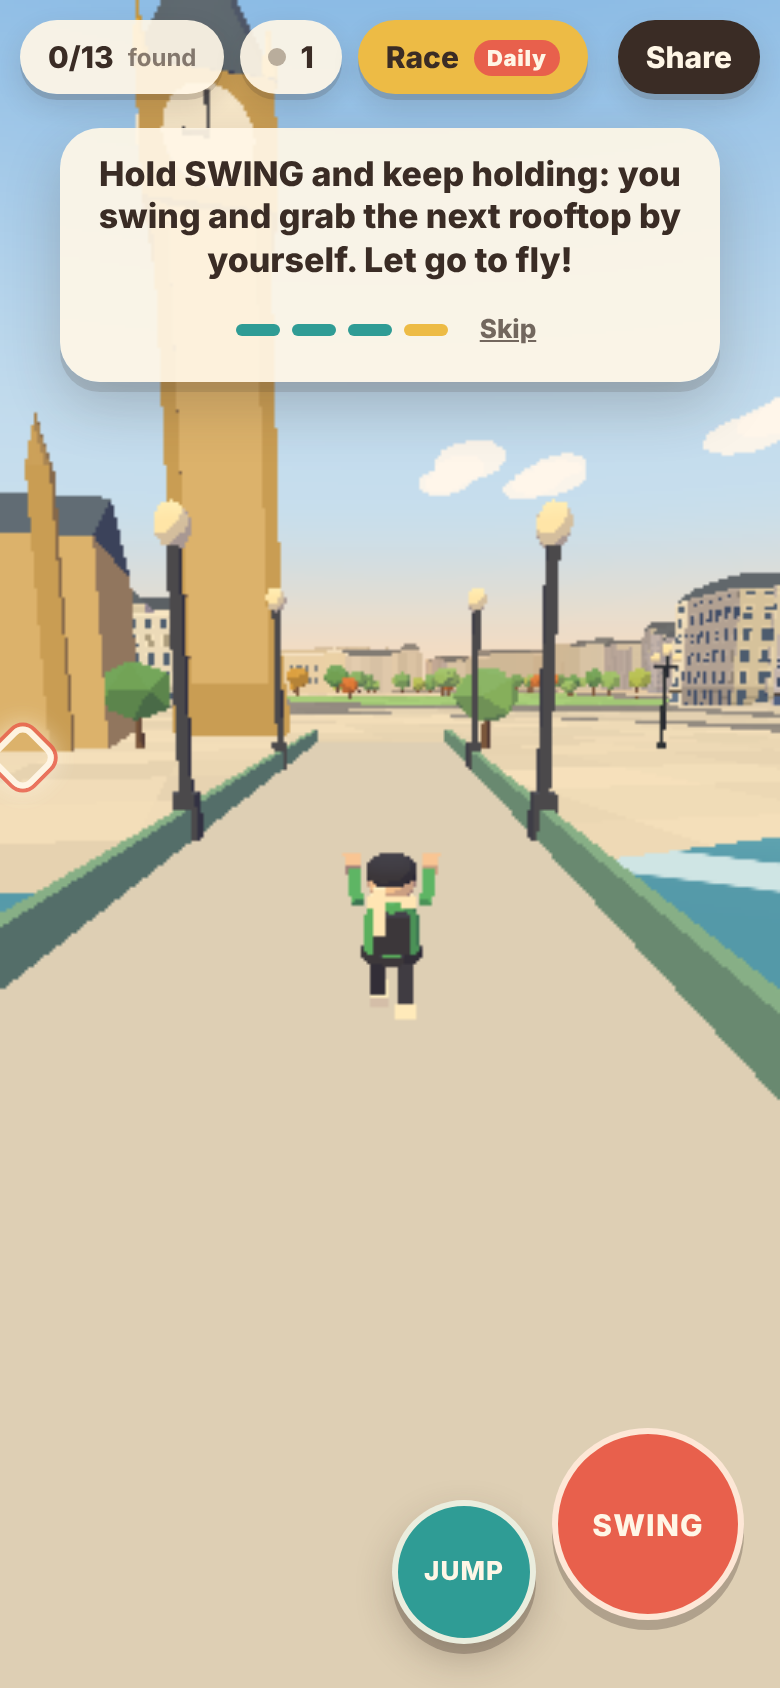
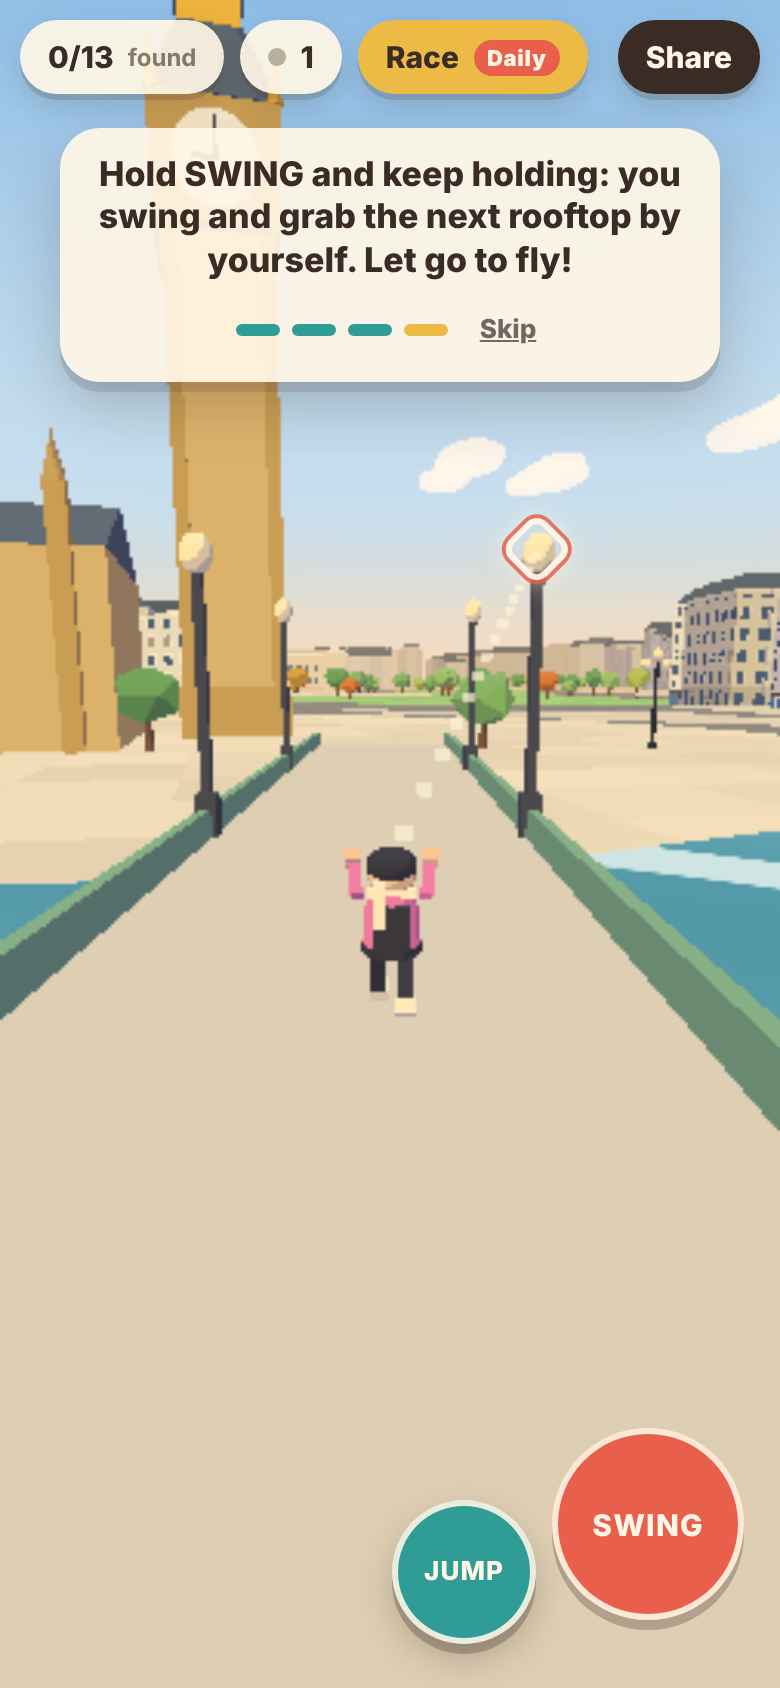
Swing aim: reticle sits on its anchor, dotted line previews the rope
The reticle's CSS rotate also rotated its screen offset, so it was
drawn away from the anchor it marked. Turn it after translating.
Add a dotted line from the hand to the anchor Swing would grab, and
make the Pages deploy wait for the browser tests.

Claude-Session: https://claude.ai/code/session_01Fz3Rh19KkUxcsxNbD18H7E

diff --git a/src/main.ts b/src/main.ts
@@ -13,6 +13,7 @@ import { GhostRecorder, decodeGhost, encodeGhost, ghostPose, liveDelta, splitDel
 import { ROUTES, Race, dailyRoute, formatTime, raceShareText, type Route } from './race';
 import { WATER_Y, groundHeight } from './world/river';
 import { parsePortal, portalRules } from './portal';
+import { AimLine } from './render/aimline';
 
 // We author colours as final display values, so skip three's colour management.
 THREE.ColorManagement.enabled = false;
@@ -316,6 +317,7 @@ ghostAvatar.setGhost(CONFIG.ghost.opacity);
 ghostAvatar.setName('Your best');
 ghostAvatar.root.visible = false;
 scene.add(ghostAvatar.root, ghostAvatar.rope);
+const aimLine = new AimLine(scene);
 ui.onName = (name) => {
   const n = cleanName(name);
   if (!n || n === myName) return;
@@ -433,12 +435,16 @@ function updateLandmarks(dt: number): void {
   }
 }
 
+/** where the reticle should sit on screen (CSS px), for the tests */
+let reticleAt: { x: number; y: number } | null = null;
 function updateReticle(): void {
+  reticleAt = null;
   const a = player.aim;
   if (!a || player.rope) return ui.setReticle(0, 0, false);
   proj.set(a.x, a.y, a.z).project(camera);
   if (proj.z > 1 || Math.abs(proj.x) > 1 || Math.abs(proj.y) > 1) return ui.setReticle(0, 0, false);
-  ui.setReticle((proj.x * 0.5 + 0.5) * window.innerWidth, (-proj.y * 0.5 + 0.5) * window.innerHeight, true);
+  reticleAt = { x: (proj.x * 0.5 + 0.5) * window.innerWidth, y: (-proj.y * 0.5 + 0.5) * window.innerHeight };
+  ui.setReticle(reticleAt.x, reticleAt.y, true);
 }
 
 // --- main loop ------------------------------------------------------------------------
@@ -523,6 +529,7 @@ function tick(dt: number, now: number): void {
   tut.looked = input.lookTotal;
 
   avatar.update(dt, rp.x, rp.y, rp.z, player.yaw, player.anim, player.speed, player.rope ? player.rope.visual : null);
+  aimLine.update({ x: rp.x, y: rp.y + 1.75, z: rp.z }, player.aim, !!player.rope);
   updateCamera(dt, now);
   updateLandmarks(dt);
   race.update(dt, player.pos.x, player.pos.z);
@@ -618,6 +625,13 @@ const debug = {
   config: CONFIG,
   get player() {
     return { x: player.pos.x, y: player.pos.y, z: player.pos.z, anim: player.anim, roped: !!player.rope, grounded: player.grounded, swings: player.swings };
+  },
+  /** the dotted preview line to the anchor Swing would grab */
+  get aimLine() {
+    return { visible: aimLine.line.visible, aim: !!player.aim };
+  },
+  get reticleAt() {
+    return reticleAt;
   },
   get peers() {
     return [...remotes.values()].map((r) => ({ id: r.peer.id, name: r.peer.name, seen: r.seen, x: r.snap.x, y: r.snap.y, z: r.snap.z }));

diff --git a/e2e/game.spec.ts b/e2e/game.spec.ts
@@ -9,7 +9,7 @@ const url = (room: string) => `/?room=${room}&relay=${encodeURIComponent(RELAY)}
 
 interface PlayerState { x: number; y: number; z: number; anim: number; roped: boolean; grounded: boolean; swings: number }
 interface PeerState { id: string; name: string; seen: boolean; x: number; y: number; z: number }
-type Debug = { ready: boolean; room: string; player: PlayerState; peers: PeerState[]; race: { state: string; time: number; next: number; route: string | null; stops: [number, number][] }; ghost: { loaded: boolean; time: number | null; visible: boolean; rope: boolean; x: number; z: number }; teleport(x: number, y: number, z: number): void };
+type Debug = { ready: boolean; room: string; player: PlayerState; peers: PeerState[]; race: { state: string; time: number; next: number; route: string | null; stops: [number, number][] }; ghost: { loaded: boolean; time: number | null; visible: boolean; rope: boolean; x: number; z: number }; aimLine: { visible: boolean; aim: boolean }; reticleAt: { x: number; y: number } | null; teleport(x: number, y: number, z: number): void };
 declare global {
   interface Window { __citywalk: Debug }
 }
@@ -104,6 +104,14 @@ test('mobile: holding Swing attaches a rope and releasing lets go', async ({ pag
   await page.goto(url('swingtest'));
   await ready(page);
   await page.locator('#tut-skip').tap();
+  // before grabbing: a dotted preview line points at the anchor Swing would take
+  await expect.poll(async () => page.evaluate(() => window.__citywalk.aimLine), { timeout: 5000 }).toEqual({ visible: true, aim: true });
+  // ...and the reticle sits on that anchor, not somewhere else on screen
+  const at = (await page.evaluate(() => window.__citywalk.reticleAt))!;
+  expect(at).not.toBeNull();
+  const rb = (await page.locator('#reticle').boundingBox())!;
+  expect(Math.abs(rb.x + rb.width / 2 - at.x)).toBeLessThan(6);
+  expect(Math.abs(rb.y + rb.height / 2 - at.y)).toBeLessThan(6);
   const cdp = await page.context().newCDPSession(page);
   const box = (await page.locator('#btn-swing').boundingBox())!;
   const bx = box.x + box.width / 2;
@@ -111,6 +119,7 @@ test('mobile: holding Swing attaches a rope and releasing lets go', async ({ pag
 
   await touch(cdp, 'touchStart', bx, by, 2);
   await expect.poll(async () => (await player(page)).roped, { timeout: 5000 }).toBe(true);
+  expect((await page.evaluate(() => window.__citywalk.aimLine)).visible).toBe(false); // the real rope replaces it
   await page.waitForTimeout(700);
   const mid = await player(page);
   expect(mid.y).toBeGreaterThan(0.5); // lifted off the ground by the rope

diff --git a/src/render/aimline.ts b/src/render/aimline.ts
@@ -1,0 +1,58 @@
+import * as THREE from 'three';
+import { CONFIG } from '../config';
+
+export interface P3 {
+  x: number;
+  y: number;
+  z: number;
+}
+
+/**
+ * Where the aim preview line runs: from just off the player's hand to the anchor
+ * the Swing button would grab. Null when there is nothing to show.
+ */
+export function aimSegment(hand: P3, aim: P3 | null, roped: boolean, cfg = CONFIG.aimLine): { from: P3; to: P3; len: number } | null {
+  if (!cfg.enabled || !aim || roped) return null;
+  const dx = aim.x - hand.x, dy = aim.y - hand.y, dz = aim.z - hand.z;
+  const full = Math.hypot(dx, dy, dz);
+  const len = full - cfg.startGap;
+  if (len < cfg.minLength) return null;
+  const k = cfg.startGap / full;
+  return { from: { x: hand.x + dx * k, y: hand.y + dy * k, z: hand.z + dz * k }, to: { x: aim.x, y: aim.y, z: aim.z }, len };
+}
+
+/**
+ * A dotted line previewing the next rope, drawn while a target is in reach.
+ * Dots (not a GL line) so it stays visible on high-density phone screens,
+ * where a 1-pixel line all but disappears.
+ */
+export class AimLine {
+  readonly line: THREE.InstancedMesh;
+  private readonly m = new THREE.Matrix4();
+
+  constructor(scene: THREE.Scene) {
+    const cfg = CONFIG.aimLine;
+    const geo = new THREE.BoxGeometry(cfg.dot, cfg.dot, cfg.dot);
+    const mat = new THREE.MeshBasicMaterial({ color: cfg.color, transparent: true, opacity: cfg.opacity, depthWrite: false });
+    this.line = new THREE.InstancedMesh(geo, mat, cfg.maxDots);
+    this.line.frustumCulled = false;
+    this.line.visible = false;
+    this.line.renderOrder = 4;
+    scene.add(this.line);
+  }
+
+  update(hand: P3, aim: P3 | null, roped: boolean): void {
+    const s = aimSegment(hand, aim, roped);
+    this.line.visible = !!s;
+    if (!s) return;
+    const cfg = CONFIG.aimLine;
+    const n = Math.min(cfg.maxDots, Math.floor(s.len / cfg.spacing) + 1);
+    for (let i = 0; i < n; i++) {
+      const t = n > 1 ? i / (n - 1) : 1;
+      this.m.makeTranslation(s.from.x + (s.to.x - s.from.x) * t, s.from.y + (s.to.y - s.from.y) * t, s.from.z + (s.to.z - s.from.z) * t);
+      this.line.setMatrixAt(i, this.m);
+    }
+    this.line.count = n;
+    this.line.instanceMatrix.needsUpdate = true;
+  }
+}

diff --git a/tests/aimline.test.ts b/tests/aimline.test.ts
@@ -1,0 +1,23 @@
+import { describe, expect, it } from 'vitest';
+import { aimSegment } from '../src/render/aimline';
+import { CONFIG } from '../src/config';
+
+const hand = { x: 0, y: 1.75, z: 0 };
+const cfg = CONFIG.aimLine;
+
+describe('aim preview line', () => {
+  it('runs from just off the hand to the anchor', () => {
+    const s = aimSegment(hand, { x: 0, y: 1.75, z: -20 }, false)!;
+    expect(s).not.toBeNull();
+    expect(s.to).toEqual({ x: 0, y: 1.75, z: -20 });
+    expect(s.from.z).toBeCloseTo(-cfg.startGap);
+    expect(s.len).toBeCloseTo(20 - cfg.startGap);
+  });
+
+  it('is hidden with no target, while roped, when disabled, or when too short', () => {
+    expect(aimSegment(hand, null, false)).toBeNull();
+    expect(aimSegment(hand, { x: 10, y: 20, z: 0 }, true)).toBeNull();
+    expect(aimSegment(hand, { x: 10, y: 20, z: 0 }, false, { ...cfg, enabled: false })).toBeNull();
+    expect(aimSegment(hand, { x: 0, y: 1.75 + cfg.startGap + cfg.minLength * 0.5, z: 0 }, false)).toBeNull();
+  });
+});

diff --git a/src/config.ts b/src/config.ts
@@ -83,6 +83,18 @@ export const CONFIG = {
 
   // --- race ghost ---------------------------------------------------------
   // your best run on each route replays as a translucent runner to chase
+  // dotted line from your hand to the anchor the Swing button would grab
+  aimLine: {
+    enabled: true,
+    color: 0xfff4d6, // same cream as the rope
+    opacity: 0.7,
+    dot: 0.16, // metres: size of each dot
+    spacing: 1.1, // metres between dots
+    maxDots: 60,
+    startGap: 0.6, // starts this far from the hand so it never cuts through the head
+    minLength: 1.5, // shorter than this, the reticle alone is enough
+  },
+
   ghost: {
     sampleHz: 10, // recorded poses per second of race time
     maxFrames: 6000, // runs longer than this (10 min at 10 Hz) keep no ghost

diff --git a/index.html b/index.html
@@ -86,7 +86,7 @@
 
       #reticle {
         position: fixed; left: 0; top: 0; width: 26px; height: 26px; margin: -13px 0 0 -13px; pointer-events: none; opacity: 0;
-        border: 3px solid var(--cream); border-radius: 7px; rotate: 45deg; box-shadow: 0 0 0 2px rgba(232, 96, 76, 0.9), 0 0 14px rgba(255, 246, 230, 0.9);
+        border: 3px solid var(--cream); border-radius: 7px; transform: rotate(45deg); box-shadow: 0 0 0 2px rgba(232, 96, 76, 0.9), 0 0 14px rgba(255, 246, 230, 0.9);
         transition: opacity 0.1s;
       }
       #reticle.on { opacity: 0.95; }

diff --git a/src/ui.ts b/src/ui.ts
@@ -169,7 +169,8 @@ export class UI {
   setReticle(x: number, y: number, on: boolean): void {
     const r = $('reticle');
     r.classList.toggle('on', on);
-    if (on) r.style.transform = `translate(${x.toFixed(1)}px, ${y.toFixed(1)}px)`;
+    // translate first, then turn into a diamond (a separate CSS `rotate` would also turn the offset)
+    if (on) r.style.transform = `translate(${x.toFixed(1)}px, ${y.toFixed(1)}px) rotate(45deg)`;
   }
 
   private async share(): Promise<void> {

diff --git a/DAILY_PROGRESS.md b/DAILY_PROGRESS.md
@@ -2,6 +2,35 @@
 
 Verified work only. Newest first.
 
+## 2026-11-08
+
+**Implemented**
+- Fixed: the swing reticle was drawn in the wrong place on screen. Its CSS diamond turn
+  (`rotate: 45deg`) also turned its screen offset, so it sat far from the anchor it marked, often
+  near the left edge. It now sits on the anchor the Swing button would grab. This bug was present
+  in every earlier build.
+- New: a dotted cream line runs from your hand to that anchor whenever Swing has something to
+  grab, and disappears once the real rope takes over. Tuning in `src/config.ts` (`aimLine`).
+  First tried as a 1-pixel GL line; it was barely visible on a phone-sized screenshot, so it uses
+  small dots instead.
+- Deploy now waits for the browser tests (`deploy` needs `build` and `e2e`), so a build that fails
+  them no longer reaches players. Decision recorded in `DECISIONS.md`.
+
+**Verified**
+- Build: 0 TS errors. Unit: 76 passed (2 new in `tests/aimline.test.ts`). Browser: 10 passed; the
+  Swing test now checks the dotted line appears before grabbing, hides once roped, and that the
+  reticle's centre is within 6 px of the anchor's projected screen point. I did not re-run that
+  check against the old CSS, so it is not proven to catch the old bug.
+- Pixel 7 emulation screenshot before and after: reticle moved from the screen edge onto the
+  lamp-post the line points at.
+- CrazyGames package rebuilt: scanner clean.
+- Not verified: whether the line helps or clutters in real play (needs a human), real phones.
+
+**Money earned:** £0 (not yet published on a paying channel).
+
+**Next task:** owner playtest fixes if any; then slow multiplayer joins under load, or swing feel
+(rope tension sound, landing roll).
+
 ## 2026-11-07
 
 **Implemented**

diff --git a/ROADMAP.md b/ROADMAP.md
@@ -7,7 +7,7 @@ Ordered by impact on getting real players and the first revenue.
 0. **Multiplayer joins**: stuck joins fixed (2026-11-04); a dropped stuck peer now triggers an
    immediate re-join (2026-11-07, unit-tested, real-browser gain not measured). Remaining: slow
    joins (50 s+) seen when 6 browsers shared a 2-core machine, in both old and new builds;
-   find whether that is just load or a real slow path. Decide whether deploy should wait for e2e.
+   find whether that is just load or a real slow path. Deploy now waits for e2e (2026-11-08).
 1. **Owner playtest on phone + desktop**, fix anything it surfaces.
 2. **itch.io launch** (awaiting approval — `DECISIONS.md`).
 3. **CrazyGames Basic Launch** (awaiting approval — `DECISIONS.md`). The no-external-links
@@ -23,7 +23,8 @@ Ordered by impact on getting real players and the first revenue.
 
 - Multiplayer race: everyone in a room races the same route.
 - Measure real-phone frame rate (ask testers), tune quality presets.
-- Swing feel: anchor preview line, rope tension sound, landing roll animation.
+- Swing feel: anchor preview line and on-target reticle (done 2026-11-08); rope tension sound,
+  landing roll animation.
 
 ## Later (only if players ask for it)
 

diff --git a/DECISIONS.md b/DECISIONS.md
@@ -2,6 +2,13 @@
 
 Newest first.
 
+## 2026-11-08 — Deploy waits for browser tests
+
+The Pages deploy job now needs the e2e job as well as the build. Reason: e2e had passed on every
+run since 2026-10-26, so it is not flaky, and a build that breaks the game in a browser should not
+reach players. Cost: a deploy lands about 5 minutes later. Reversible by editing
+`.github/workflows/deploy.yml` (`needs: build`).
+
 ## 2026-10-28 — CrazyGames Basic Launch approval requested (not yet given)
 
 **Request:** submit `release/citywalk-crazygames-0.9.0.zip` to CrazyGames Basic Launch
